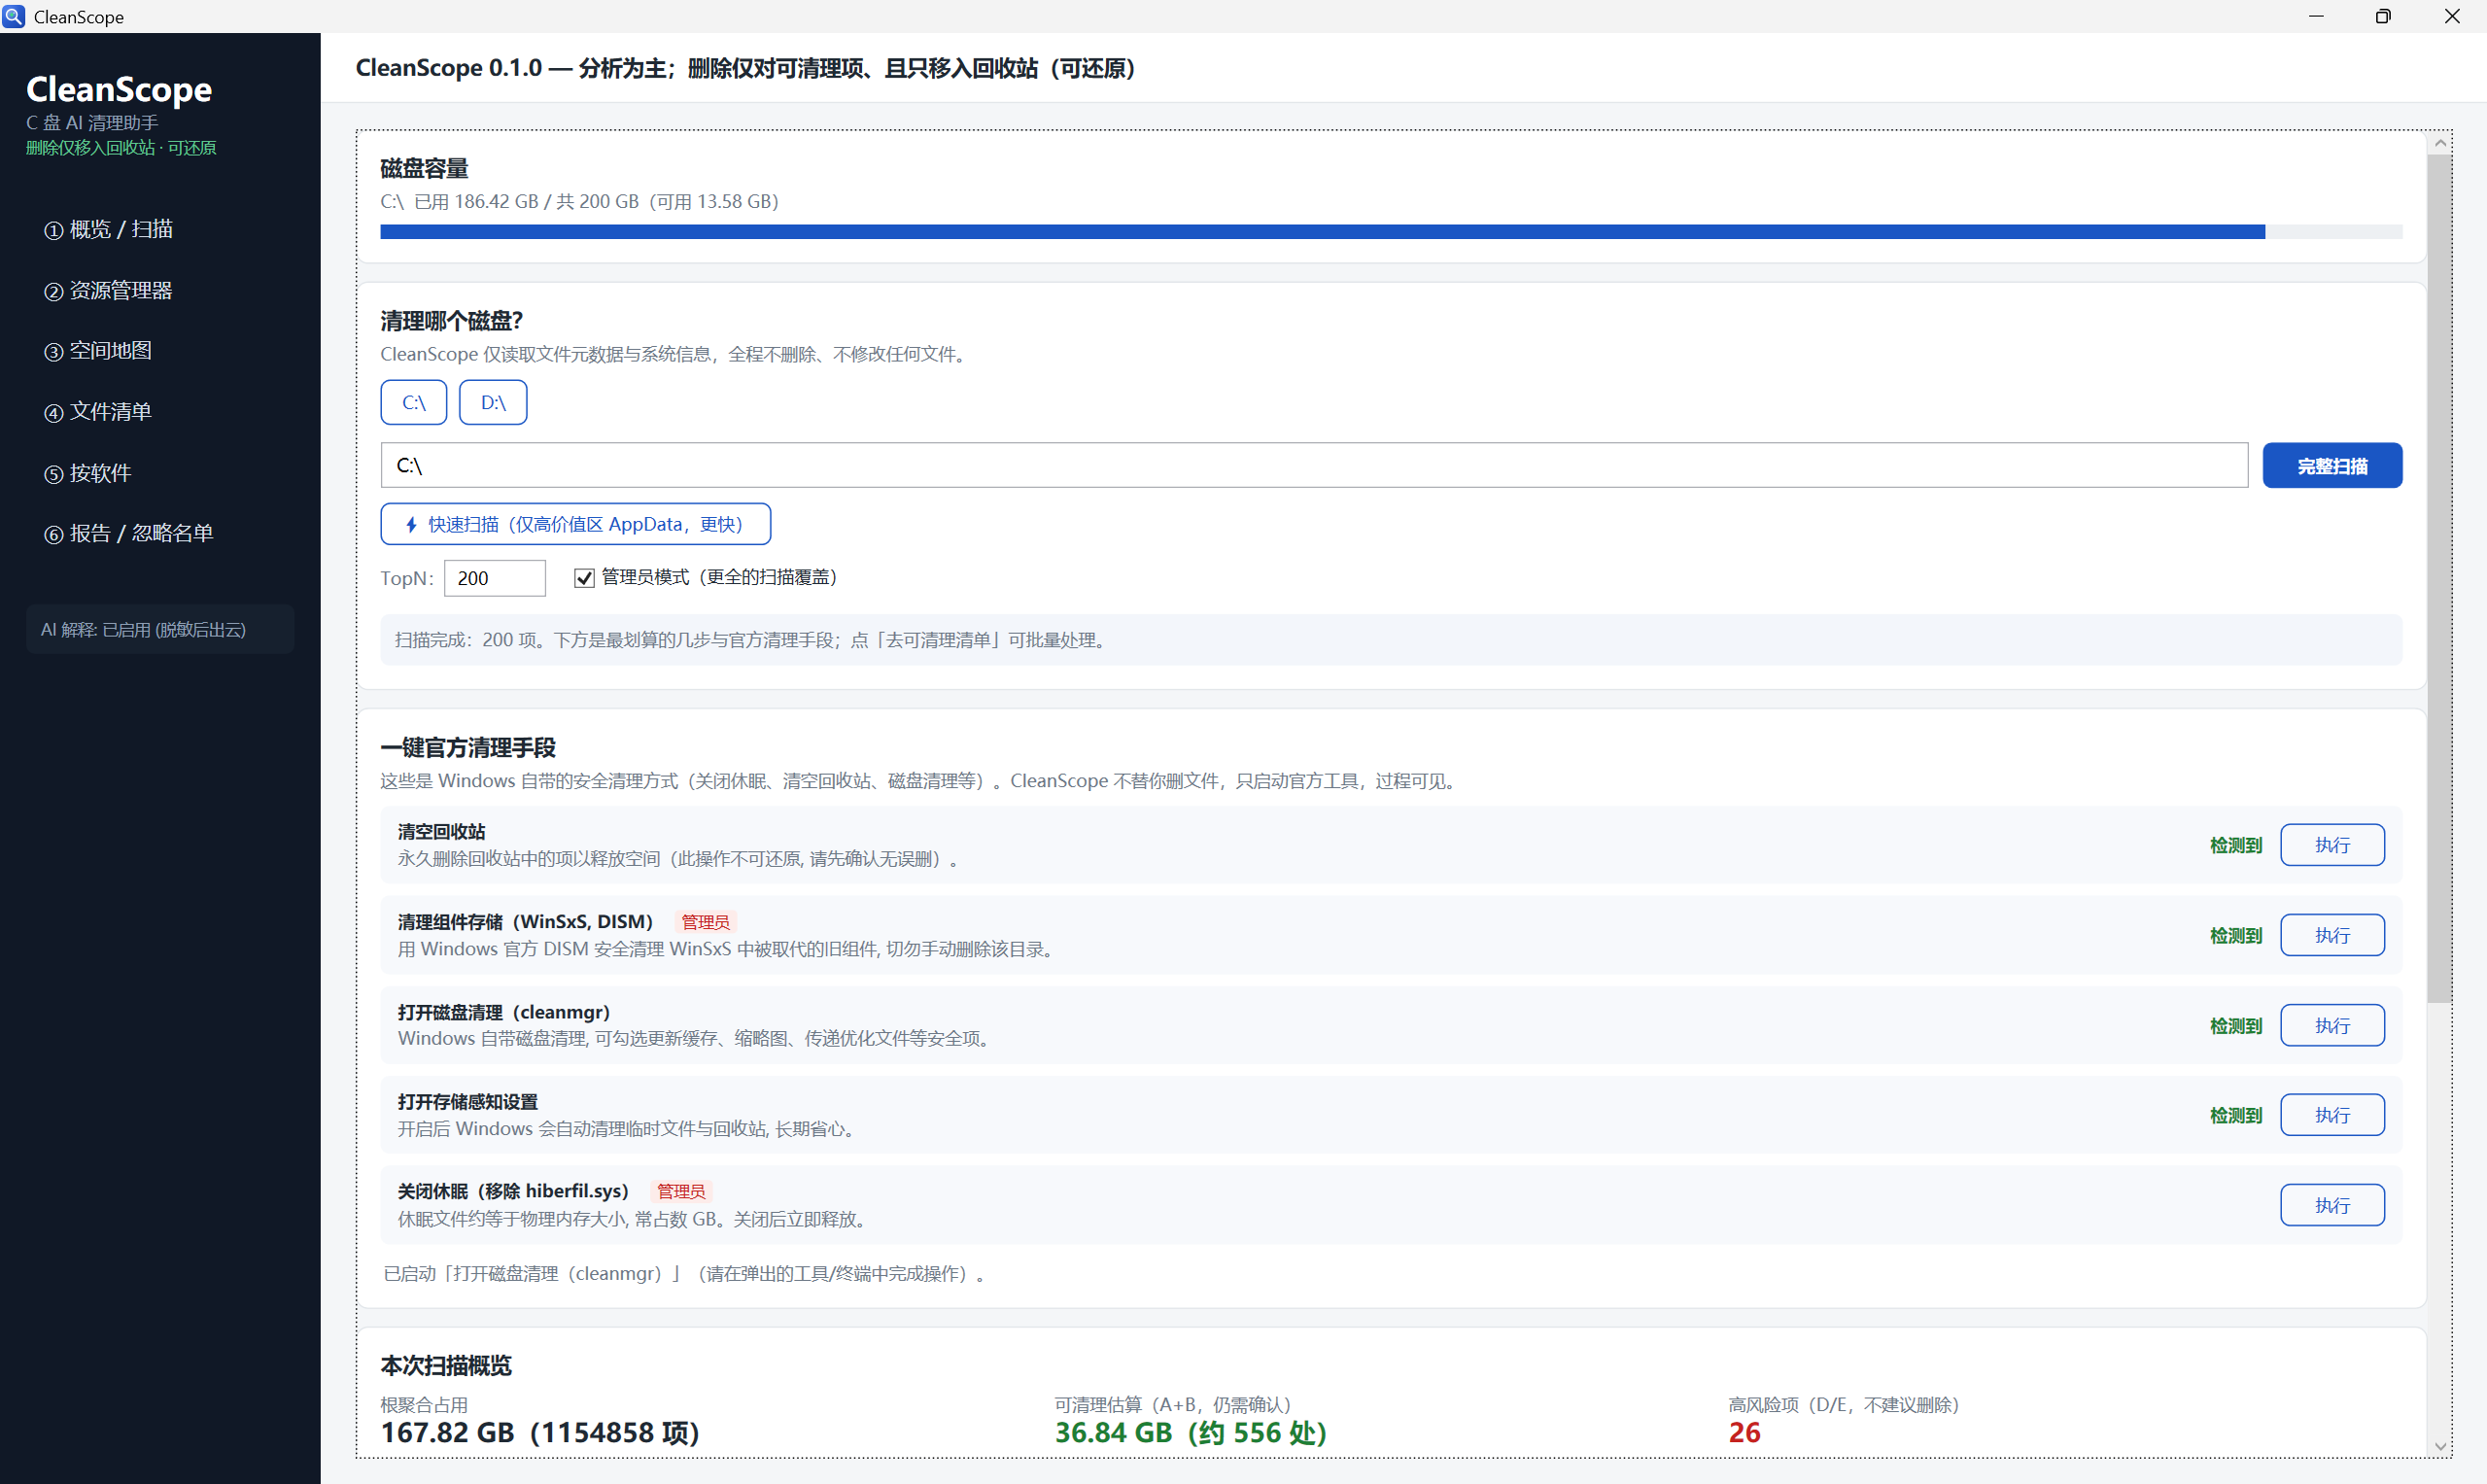
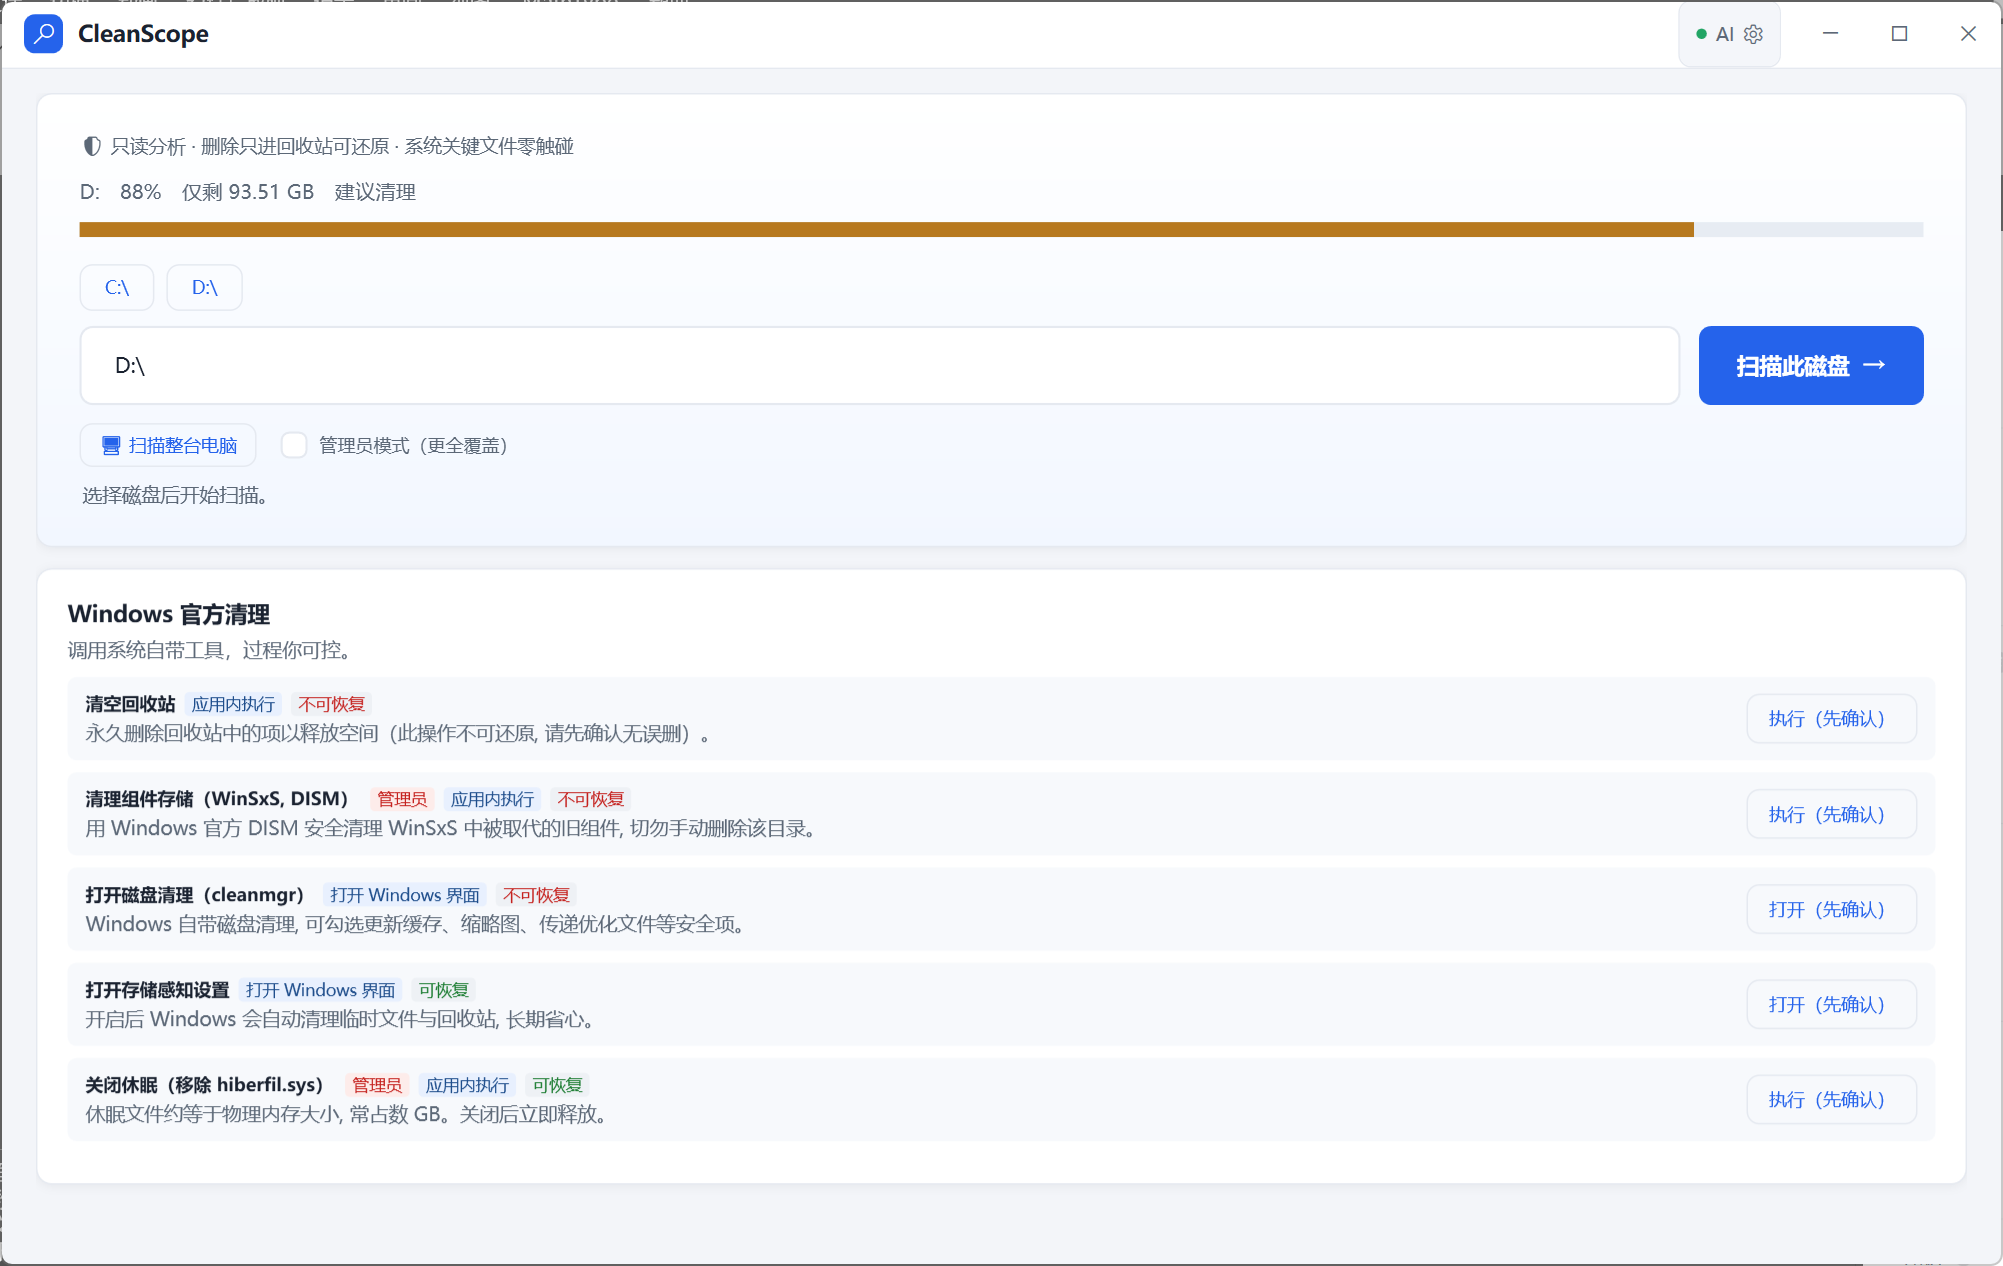
feat(wpf): A 自绘矢量图标系统, 取代 UI 中的 emoji
- App.xaml 新增统一图标集 (描边/实心两类 Geometry + IconStroke/IconFill 样式):
  搜索/回收站/盾牌/显示器/计划清单/锁/滑块/文档/警示/对勾/还原/AI星/播放。
- 各视图按钮与标记的 emoji 全部换成 Path 矢量图标 (延续返回箭头的线性风格,
  随主题色着色): AI设置(检索/查看日志/脱敏档位/加密提示/已生效)、可清理清单
  (移入回收站/AI识别/可清理/已回收/AI推测)、文件详情(高风险/符号链接/AI解释/
  回收/运行命令)、首页(安全承诺/扫整机/AI计划)、空间地图图例、报告页回收还原。
- 看着是刻意设计的图标而非随手贴的 emoji; 矢量随 DPI 缩放清晰。

diff --git a/src/CleanScope.App.Wpf/Views/ExplorerView.xaml b/src/CleanScope.App.Wpf/Views/ExplorerView.xaml
@@ -19,7 +19,7 @@
             <StackPanel Grid.Row="0" Margin="0,0,0,10">
                 <Grid>
                     <TextBlock Text="资源管理器（整盘目录树 · 可清理清单）" Style="{StaticResource H2}" VerticalAlignment="Center"/>
-                    <CheckBox Content="✓ 只看可清理（扁平，可勾选批量清理）" IsChecked="{Binding ShowCleanableOnly}"
+                    <CheckBox Content="只看可清理（扁平，可勾选批量清理）" IsChecked="{Binding ShowCleanableOnly}"
                               HorizontalAlignment="Right" VerticalAlignment="Center" Foreground="#1E7E34" FontWeight="SemiBold"/>
                 </Grid>
 
@@ -56,8 +56,13 @@
                             Visibility="{Binding ShowBatchBar, Converter={StaticResource BoolToVis}}">
                     <Button Content="全选" Command="{Binding SelectAllCommand}" Style="{StaticResource Ghost}" Margin="0,0,8,0"/>
                     <Button Content="全不选" Command="{Binding SelectNoneCommand}" Style="{StaticResource Ghost}" Margin="0,0,8,0"/>
-                    <Button Content="🗑 移入回收站（可还原）" Command="{Binding RecycleSelectedCommand}"
-                            Style="{StaticResource Primary}" Margin="0,0,12,0"/>
+                    <Button Command="{Binding RecycleSelectedCommand}" Style="{StaticResource Primary}" Margin="0,0,12,0">
+                        <StackPanel Orientation="Horizontal">
+                            <Path Data="{StaticResource IconTrash}" Style="{StaticResource IconStroke}" Stroke="White"
+                                  Width="14" Height="14" Margin="0,0,6,0"/>
+                            <TextBlock Text="移入回收站（可还原）" VerticalAlignment="Center"/>
+                        </StackPanel>
+                    </Button>
                     <TextBlock Text="排序" VerticalAlignment="Center" Foreground="{StaticResource Muted}" Margin="0,0,4,0"/>
                     <Button Content="大小" Command="{Binding SortBySizeCommand}" Style="{StaticResource Ghost}" Margin="0,0,6,0"/>
                     <Button Content="名称" Command="{Binding SortByNameCommand}" Style="{StaticResource Ghost}" Margin="0,0,16,0"/>
@@ -150,13 +155,25 @@
                                             </Style>
                                         </TextBlock.Style>
                                     </TextBlock>
-                                    <TextBlock Text="  ✓可清理" Foreground="#1E7E34" FontSize="11" VerticalAlignment="Center"
-                                               Visibility="{Binding IsCleanable, Converter={StaticResource BoolToVis}}"/>
-                                    <TextBlock Text="  ♻已移入回收站" Foreground="{StaticResource Muted}" FontSize="11" VerticalAlignment="Center"
-                                               Visibility="{Binding IsDeleted, Converter={StaticResource BoolToVis}}"/>
-                                    <TextBlock Text="  ✨AI推测" Foreground="#8451C4" FontSize="11" VerticalAlignment="Center"
-                                               ToolTip="来源/用途由 AI 推测补充，仅供参考"
-                                               Visibility="{Binding IsAiResolved, Converter={StaticResource BoolToVis}}"/>
+                                    <StackPanel Orientation="Horizontal" VerticalAlignment="Center" Margin="8,0,0,0"
+                                                Visibility="{Binding IsCleanable, Converter={StaticResource BoolToVis}}">
+                                        <Path Data="{StaticResource IconCheck}" Style="{StaticResource IconStroke}" Stroke="#1E7E34"
+                                              Width="11" Height="11" Margin="0,0,3,0"/>
+                                        <TextBlock Text="可清理" Foreground="#1E7E34" FontSize="11" VerticalAlignment="Center"/>
+                                    </StackPanel>
+                                    <StackPanel Orientation="Horizontal" VerticalAlignment="Center" Margin="8,0,0,0"
+                                                Visibility="{Binding IsDeleted, Converter={StaticResource BoolToVis}}">
+                                        <Path Data="{StaticResource IconRestore}" Style="{StaticResource IconStroke}" Stroke="{StaticResource Muted}"
+                                              Width="11" Height="11" Margin="0,0,3,0"/>
+                                        <TextBlock Text="已移入回收站" Foreground="{StaticResource Muted}" FontSize="11" VerticalAlignment="Center"/>
+                                    </StackPanel>
+                                    <StackPanel Orientation="Horizontal" VerticalAlignment="Center" Margin="8,0,0,0"
+                                                ToolTip="来源/用途由 AI 推测补充，仅供参考"
+                                                Visibility="{Binding IsAiResolved, Converter={StaticResource BoolToVis}}">
+                                        <Path Data="{StaticResource IconAi}" Style="{StaticResource IconFill}" Fill="#8451C4"
+                                              Width="11" Height="11" Margin="0,0,3,0"/>
+                                        <TextBlock Text="AI推测" Foreground="#8451C4" FontSize="11" VerticalAlignment="Center"/>
+                                    </StackPanel>
                                     <StackPanel Orientation="Horizontal" VerticalAlignment="Center" Margin="6,0,0,0"
                                                 Visibility="{Binding IsInvestigating, Converter={StaticResource BoolToVis}}">
                                         <views:Spinner Diameter="11" Stroke="#8451C4" VerticalAlignment="Center"/>
@@ -257,14 +274,26 @@
                                     <Button Content="复制路径" Command="{Binding CopyPathCommand}" Style="{StaticResource Ghost}" Margin="0,0,6,6"/>
                                     <Button Content="打开位置" Command="{Binding OpenLocationCommand}" Style="{StaticResource Ghost}" Margin="0,0,6,6"
                                             Visibility="{Binding ShowLiveActions, Converter={StaticResource BoolToVis}}"/>
-                                    <Button Content="✨ 用 AI 识别" Command="{Binding InvestigateCommand}" Style="{StaticResource Ghost}" Margin="0,0,6,6"
-                                            Visibility="{Binding ShowAiMenu, Converter={StaticResource BoolToVis}}"/>
+                                    <Button Command="{Binding InvestigateCommand}" Style="{StaticResource Ghost}" Margin="0,0,6,6"
+                                            Visibility="{Binding ShowAiMenu, Converter={StaticResource BoolToVis}}">
+                                        <StackPanel Orientation="Horizontal">
+                                            <Path Data="{StaticResource IconAi}" Style="{StaticResource IconFill}" Fill="{StaticResource Accent}"
+                                                  Width="13" Height="13" Margin="0,0,6,0"/>
+                                            <TextBlock Text="用 AI 识别" VerticalAlignment="Center"/>
+                                        </StackPanel>
+                                    </Button>
                                     <Button Content="加入忽略名单" Command="{Binding AddIgnoreCommand}" Style="{StaticResource Ghost}" Margin="0,0,6,6"
                                             Visibility="{Binding ShowLiveActions, Converter={StaticResource BoolToVis}}"/>
                                     <Button Content="迁移到其他盘" Command="{Binding MigrateCommand}" Style="{StaticResource Ghost}" Margin="0,0,6,6"
                                             Visibility="{Binding ShowLiveActions, Converter={StaticResource BoolToVis}}"/>
-                                    <Button Content="🗑 移入回收站" Command="{Binding RecycleCommand}" Style="{StaticResource Ghost}" Margin="0,0,6,6"
-                                            Visibility="{Binding ShowLiveActions, Converter={StaticResource BoolToVis}}"/>
+                                    <Button Command="{Binding RecycleCommand}" Style="{StaticResource Ghost}" Margin="0,0,6,6"
+                                            Visibility="{Binding ShowLiveActions, Converter={StaticResource BoolToVis}}">
+                                        <StackPanel Orientation="Horizontal">
+                                            <Path Data="{StaticResource IconTrash}" Style="{StaticResource IconStroke}" Stroke="{StaticResource Accent}"
+                                                  Width="13" Height="13" Margin="0,0,6,0"/>
+                                            <TextBlock Text="移入回收站" VerticalAlignment="Center"/>
+                                        </StackPanel>
+                                    </Button>
                                     <Button Content="在回收站中查看 / 还原" Command="{Binding OpenRecycleBinCommand}" Style="{StaticResource Ghost}" Margin="0,0,6,6"
                                             Visibility="{Binding IsDeleted, Converter={StaticResource BoolToVis}}"/>
                                 </WrapPanel>

diff --git a/src/CleanScope.App.Wpf/Views/FileDetailView.xaml b/src/CleanScope.App.Wpf/Views/FileDetailView.xaml
@@ -42,8 +42,11 @@
                     <!-- 高风险提示: D/E 仅提示不建议删除, 不渲染任何删除入口 -->
                     <Border Margin="0,12,0,0" Padding="12" CornerRadius="6" Background="#FCE8E6"
                             Visibility="{Binding IsHighRisk, Converter={StaticResource BoolToVis}}">
-                        <TextBlock Foreground="#9A1C19" TextWrapping="Wrap"
-                                   Text="🔴 该项为高风险（D/E）：可能是系统/应用关键文件或无法判断来源。本工具不提供删除入口，强烈建议保留。"/>
+                        <StackPanel Orientation="Horizontal">
+                            <Ellipse Width="10" Height="10" Fill="{StaticResource Critical}" VerticalAlignment="Top" Margin="0,3,8,0"/>
+                            <TextBlock Foreground="#9A1C19" TextWrapping="Wrap"
+                                       Text="该项为高风险（D/E）：可能是系统/应用关键文件或无法判断来源。本工具不提供删除入口，强烈建议保留。"/>
+                        </StackPanel>
                     </Border>
                 </StackPanel>
             </Border>
@@ -60,9 +63,13 @@
                         <StackPanel Margin="0,2"><TextBlock Text="最后修改" Style="{StaticResource Sub}"/><TextBlock Text="{Binding Mtime}"/></StackPanel>
                         <StackPanel Margin="0,2"><TextBlock Text="占用进程" Style="{StaticResource Sub}"/><TextBlock Text="{Binding OccupyingProcess}"/></StackPanel>
                     </UniformGrid>
-                    <TextBlock Margin="0,8,0,0" Foreground="#9A6700"
-                               Visibility="{Binding IsReparsePoint, Converter={StaticResource BoolToVis}}"
-                               Text="⚠ 此项为符号链接 / 联接点；风险判定基于解析后的真实路径。"/>
+                    <StackPanel Orientation="Horizontal" Margin="0,8,0,0"
+                                Visibility="{Binding IsReparsePoint, Converter={StaticResource BoolToVis}}">
+                        <Path Data="{StaticResource IconWarn}" Style="{StaticResource IconStroke}" Stroke="#9A6700"
+                              Width="13" Height="13" Margin="0,0,6,0" VerticalAlignment="Top"/>
+                        <TextBlock Foreground="#9A6700" TextWrapping="Wrap"
+                                   Text="此项为符号链接 / 联接点；风险判定基于解析后的真实路径。"/>
+                    </StackPanel>
                 </StackPanel>
             </Border>
 
@@ -168,9 +175,15 @@
         </Border>
 
         <!-- 按需 AI 解释入口: 不自动出云, 用户点了才请求 (省 token); 未配置 AI / 已解释 / 系统关键时不显示 -->
-        <Button Content="✨ 用 AI 解释这一项（脱敏后请求，可选）" Command="{Binding ExplainCommand}" Style="{StaticResource Ghost}"
+        <Button Command="{Binding ExplainCommand}" Style="{StaticResource Ghost}"
                 HorizontalAlignment="Left" Margin="0,0,0,8"
-                Visibility="{Binding CanExplain, Converter={StaticResource BoolToVis}}"/>
+                Visibility="{Binding CanExplain, Converter={StaticResource BoolToVis}}">
+            <StackPanel Orientation="Horizontal">
+                <Path Data="{StaticResource IconAi}" Style="{StaticResource IconFill}" Fill="{StaticResource Accent}"
+                      Width="13" Height="13" Margin="0,0,6,0"/>
+                <TextBlock Text="用 AI 解释这一项（脱敏后请求，可选）" VerticalAlignment="Center"/>
+            </StackPanel>
+        </Button>
 
         <!-- AI 状态 (生成中 / 不可用; 无解释卡时显示); 生成中显示转圈 (问题#2) -->
         <StackPanel Orientation="Horizontal" Margin="2,-4,0,8" VerticalAlignment="Center"
@@ -190,10 +203,22 @@
                 <!-- S-E 删除入口: 仅"可清理"(A/B) 项显示, 移入回收站可还原; 经两步确认+闸门复核+审计。 -->
                 <!-- S-D 推荐动作: 命令型→运行/复制官方命令; 安装目录→卸载程序; 通用→定位/复制路径/忽略 -->
                 <WrapPanel>
-                    <Button Content="🗑 移入回收站（可还原）" Command="{Binding MoveToRecycleBinCommand}" Style="{StaticResource Primary}"
-                            Margin="0,0,8,8" Visibility="{Binding Row.CanRecycle, Converter={StaticResource BoolToVis}}"/>
-                    <Button Content="▶ 运行官方清理命令" Command="{Binding RunCommandCommand}" Style="{StaticResource Primary}"
-                            Margin="0,0,8,8" Visibility="{Binding Row.HasRunCommand, Converter={StaticResource BoolToVis}}"/>
+                    <Button Command="{Binding MoveToRecycleBinCommand}" Style="{StaticResource Primary}"
+                            Margin="0,0,8,8" Visibility="{Binding Row.CanRecycle, Converter={StaticResource BoolToVis}}">
+                        <StackPanel Orientation="Horizontal">
+                            <Path Data="{StaticResource IconTrash}" Style="{StaticResource IconStroke}" Stroke="White"
+                                  Width="14" Height="14" Margin="0,0,6,0"/>
+                            <TextBlock Text="移入回收站（可还原）" VerticalAlignment="Center"/>
+                        </StackPanel>
+                    </Button>
+                    <Button Command="{Binding RunCommandCommand}" Style="{StaticResource Primary}"
+                            Margin="0,0,8,8" Visibility="{Binding Row.HasRunCommand, Converter={StaticResource BoolToVis}}">
+                        <StackPanel Orientation="Horizontal">
+                            <Path Data="{StaticResource IconPlay}" Style="{StaticResource IconFill}" Fill="White"
+                                  Width="13" Height="13" Margin="0,0,6,0"/>
+                            <TextBlock Text="运行官方清理命令" VerticalAlignment="Center"/>
+                        </StackPanel>
+                    </Button>
                     <Button Content="复制清理命令" Command="{Binding CopyCommandCommand}" Style="{StaticResource Ghost}"
                             Margin="0,0,8,8" Visibility="{Binding Row.HasRunCommand, Converter={StaticResource BoolToVis}}"/>
                     <Button Content="打开卸载程序" Command="{Binding UninstallCommand}" Style="{StaticResource Ghost}"

diff --git a/src/CleanScope.App.Wpf/Views/AiSettingsView.xaml b/src/CleanScope.App.Wpf/Views/AiSettingsView.xaml
@@ -30,10 +30,20 @@
 
             <TextBlock Text="API Key" Foreground="{StaticResource Ink}" Margin="0,0,0,4"/>
             <PasswordBox x:Name="KeyBox" Style="{StaticResource FieldPassword}" Margin="0,0,0,4" PasswordChanged="KeyBox_PasswordChanged"/>
-            <TextBlock Text="🔒 本机 DPAPI 加密保存，绝不上传" Style="{StaticResource Caption}" Margin="2,0,0,12"/>
+            <StackPanel Orientation="Horizontal" Margin="2,0,0,12">
+                <Path Data="{StaticResource IconLock}" Style="{StaticResource IconStroke}" Stroke="{StaticResource Faint}"
+                      Width="12" Height="12" Margin="0,0,5,0"/>
+                <TextBlock Text="本机 DPAPI 加密保存，绝不上传" Style="{StaticResource Caption}" VerticalAlignment="Center"/>
+            </StackPanel>
 
             <StackPanel Orientation="Horizontal" Margin="0,0,0,14">
-                <Button Content="🔍 检索模型" Command="{Binding ListModelsCommand}" Style="{StaticResource Ghost}" Margin="0,0,10,0"/>
+                <Button Command="{Binding ListModelsCommand}" Style="{StaticResource Ghost}" Margin="0,0,10,0">
+                    <StackPanel Orientation="Horizontal">
+                        <Path Data="{StaticResource IconSearch}" Style="{StaticResource IconStroke}" Stroke="{StaticResource Accent}"
+                              Width="14" Height="14" Margin="0,0,6,0"/>
+                        <TextBlock Text="检索模型" VerticalAlignment="Center"/>
+                    </StackPanel>
+                </Button>
                 <ComboBox ItemsSource="{Binding Models}" SelectedItem="{Binding SelectedModel}"
                           MinWidth="240" Padding="8,6" VerticalContentAlignment="Center"/>
             </StackPanel>
@@ -46,7 +56,11 @@
             <!-- 出云脱敏: 三档平铺单选, 醒目卡片 (问题#4: 让用户一眼看到能调档, 不致误以为 AI 识别力弱) -->
             <Border Background="#FFF7E6" BorderBrush="#F0C36D" BorderThickness="1" CornerRadius="8" Padding="14,12" Margin="0,0,0,14">
                 <StackPanel>
-                    <TextBlock Text="🔧 出云脱敏档位（影响 AI 识别力 ←→ 隐私）" FontWeight="Bold" Foreground="#8A5A00" Margin="0,0,0,2"/>
+                    <StackPanel Orientation="Horizontal" Margin="0,0,0,2">
+                        <Path Data="{StaticResource IconTune}" Style="{StaticResource IconStroke}" Stroke="#8A5A00"
+                              Width="15" Height="15" Margin="0,0,7,0"/>
+                        <TextBlock Text="出云脱敏档位（影响 AI 识别力 ←→ 隐私）" FontWeight="Bold" Foreground="#8A5A00" VerticalAlignment="Center"/>
+                    </StackPanel>
                     <TextBlock Text="觉得 AI「认不出软件」？多半是脱敏太严。下面三档可随时切换，越往下识别越准、发送的路径信息越多。"
                                TextWrapping="Wrap" Style="{StaticResource Sub}" Margin="0,0,0,10"/>
 
@@ -65,8 +79,14 @@
             </Border>
 
             <StackPanel Orientation="Horizontal" Margin="0,0,0,12">
-                <Button Content="🗎 查看日志" Command="{Binding OpenLogCommand}" Style="{StaticResource Ghost}" Margin="0,0,10,0"
-                        ToolTip="打开本地诊断日志：AI 失败的真实原因（鉴权/模型名/网络/截断等）都记在这里"/>
+                <Button Command="{Binding OpenLogCommand}" Style="{StaticResource Ghost}" Margin="0,0,10,0"
+                        ToolTip="在应用内查看诊断日志：AI 失败的真实原因（鉴权/模型名/网络/截断等）都记在这里">
+                    <StackPanel Orientation="Horizontal">
+                        <Path Data="{StaticResource IconDoc}" Style="{StaticResource IconStroke}" Stroke="{StaticResource Accent}"
+                              Width="14" Height="14" Margin="0,0,6,0"/>
+                        <TextBlock Text="查看日志" VerticalAlignment="Center"/>
+                    </StackPanel>
+                </Button>
                 <Button Content="测试连接" Command="{Binding TestCommand}" Style="{StaticResource Ghost}" Margin="0,0,10,0"/>
                 <Button Command="{Binding SaveCommand}" Style="{StaticResource Primary}" MinWidth="132">
                     <Grid>
@@ -95,8 +115,12 @@
                             <TextBlock Text="保存中…" Foreground="White" Margin="8,0,0,0"/>
                         </StackPanel>
                         <!-- 已生效 -->
-                        <TextBlock Text="✓ 已生效" Foreground="White" VerticalAlignment="Center"
-                                   Visibility="{Binding JustSaved, Converter={StaticResource BoolToVis}}"/>
+                        <StackPanel Orientation="Horizontal" VerticalAlignment="Center"
+                                    Visibility="{Binding JustSaved, Converter={StaticResource BoolToVis}}">
+                            <Path Data="{StaticResource IconCheck}" Style="{StaticResource IconStroke}" Stroke="White"
+                                  Width="14" Height="14" Margin="0,0,6,0"/>
+                            <TextBlock Text="已生效" Foreground="White" VerticalAlignment="Center"/>
+                        </StackPanel>
                     </Grid>
                 </Button>
             </StackPanel>

diff --git a/src/CleanScope.App.Wpf/App.xaml b/src/CleanScope.App.Wpf/App.xaml
@@ -655,6 +655,42 @@
             <!-- 一根水平轴 + 左端楔形箭头, 描边渲染 (见各处 Path Stroke/StrokeThickness)。 -->
             <Geometry x:Key="IconBackArrow">M11,3 L4,10 L11,17 M4,10 L19,10</Geometry>
 
+            <!-- ===== 自绘矢量图标集 (A: 取代 emoji, 统一线性/实心风格, 看着是刻意设计) ===== -->
+            <!-- 描边类 (线性): 用 Stroke 渲染 -->
+            <Geometry x:Key="IconSearch">M7.5,2 A5.5,5.5 0 1,0 7.51,2 M11.6,11.6 L16,16</Geometry>
+            <Geometry x:Key="IconTrash">M3.5,4.6 H14.5 M6.5,4.6 V3.1 Q6.5,2.3 7.3,2.3 H10.7 Q11.5,2.3 11.5,3.1 V4.6 M5,4.6 L5.8,15.4 Q5.85,16.2 6.6,16.2 H11.4 Q12.15,16.2 12.2,15.4 L13,4.6 M7.7,7.2 V13.4 M10.3,7.2 V13.4</Geometry>
+            <Geometry x:Key="IconShield">M9,1.8 L15,4 V8.8 C15,13 12.4,15.2 9,16.4 C5.6,15.2 3,13 3,8.8 V4 Z</Geometry>
+            <Geometry x:Key="IconMonitor">M2.5,3 H15.5 V11.5 H2.5 Z M6.5,14.6 H11.5 M9,11.5 V14.6</Geometry>
+            <Geometry x:Key="IconPlan">M5,3 H13 V16 H5 Z M7.5,3 V2 H10.5 V3 M7,9 L8.2,10.2 L11,7.2 M7,13 H11</Geometry>
+            <Geometry x:Key="IconLock">M4.6,8 H13.4 V16 H4.6 Z M6.3,8 V5.6 C6.3,3.4 7.5,2.5 9,2.5 C10.5,2.5 11.7,3.4 11.7,5.6 V8 M9,11 V13.2</Geometry>
+            <Geometry x:Key="IconTune">M3,5 H7 M11,5 H15 M9,3.4 A1.6,1.6 0 1,0 9.01,3.4 M3,13 H7 M11,13 H15 M9,11.4 A1.6,1.6 0 1,0 9.01,11.4</Geometry>
+            <Geometry x:Key="IconDoc">M5,2.2 H11 L14,5.2 V16 H5 Z M11,2.2 V5.2 H14 M7,9 H12 M7,12 H12 M7,15 H10</Geometry>
+            <Geometry x:Key="IconWarn">M9,2.8 L16,15.2 H2 Z M9,7 V11.1 M9,12.7 V13.3</Geometry>
+            <Geometry x:Key="IconCheck">M3,9.5 L6.8,13.3 L15,5</Geometry>
+            <Geometry x:Key="IconRestore">M3.6,9 A5.4,5.4 0 1,1 5.2,12.8 M3.6,9 L3,6 M3.6,9 L6.6,8</Geometry>
+            <!-- 实心类: 用 Fill 渲染 -->
+            <Geometry x:Key="IconAi">M9,1.5 L10.7,6.8 L16,8.5 L10.7,10.2 L9,15.5 L7.3,10.2 L2,8.5 L7.3,6.8 Z</Geometry>
+            <Geometry x:Key="IconPlay">M5.5,3.5 L14.5,9 L5.5,14.5 Z</Geometry>
+
+            <!-- 图标渲染样式: 描边 / 实心 (统一尺寸/线宽/端点圆角) -->
+            <Style x:Key="IconStroke" TargetType="Path">
+                <Setter Property="StrokeThickness" Value="1.5"/>
+                <Setter Property="StrokeStartLineCap" Value="Round"/>
+                <Setter Property="StrokeEndLineCap" Value="Round"/>
+                <Setter Property="StrokeLineJoin" Value="Round"/>
+                <Setter Property="Stretch" Value="Uniform"/>
+                <Setter Property="Width" Value="16"/>
+                <Setter Property="Height" Value="16"/>
+                <Setter Property="VerticalAlignment" Value="Center"/>
+                <Setter Property="SnapsToDevicePixels" Value="True"/>
+            </Style>
+            <Style x:Key="IconFill" TargetType="Path">
+                <Setter Property="Stretch" Value="Uniform"/>
+                <Setter Property="Width" Value="16"/>
+                <Setter Property="Height" Value="16"/>
+                <Setter Property="VerticalAlignment" Value="Center"/>
+            </Style>
+
             <!-- 标题栏 AI 状态胶囊 (带标签可点; hover 微亮) -->
             <Style x:Key="AiPill" TargetType="Button">
                 <Setter Property="Foreground" Value="{StaticResource Muted}"/>

diff --git a/src/CleanScope.App.Wpf/Views/HomeView.xaml b/src/CleanScope.App.Wpf/Views/HomeView.xaml
@@ -21,9 +21,13 @@
             </Border.Background>
             <StackPanel>
                 <!-- 工作台首屏: 去掉大标题/口号 (占注意力且无用), 仅保留一行安全承诺作信任锚 (扫描前) -->
-                <TextBlock Text="🛡 只读分析 · 删除只进回收站可还原 · 系统关键文件零触碰"
-                           FontSize="12.5" Foreground="{StaticResource Muted}" Margin="0,0,0,2"
-                           Visibility="{Binding HasResult, Converter={StaticResource BoolToVis}, ConverterParameter=invert}"/>
+                <StackPanel Orientation="Horizontal" Margin="0,0,0,2"
+                            Visibility="{Binding HasResult, Converter={StaticResource BoolToVis}, ConverterParameter=invert}">
+                    <Path Data="{StaticResource IconShield}" Style="{StaticResource IconStroke}" Stroke="{StaticResource Clean}"
+                          Width="13" Height="13" Margin="0,0,6,0"/>
+                    <TextBlock Text="只读分析 · 删除只进回收站可还原 · 系统关键文件零触碰"
+                               FontSize="12.5" Foreground="{StaticResource Muted}" VerticalAlignment="Center"/>
+                </StackPanel>
 
                 <TextBlock Text="{Binding DriveInfo}" FontSize="13.5" Foreground="{StaticResource Muted}"
                            Margin="0,12,0,12"/>
@@ -62,9 +66,14 @@
 
                 <!-- 次要选项: 整台电脑 + 管理员模式 (弱化, 不抢主操作) -->
                 <StackPanel Orientation="Horizontal" Margin="0,12,0,0" VerticalAlignment="Center">
-                    <Button Content="🖥 扫描整台电脑" Command="{Binding ScanAllDrivesCommand}"
-                            Style="{StaticResource Ghost}" Padding="12,6"
-                            ToolTip="一次扫描本机所有固定磁盘，合并成一份总览"/>
+                    <Button Command="{Binding ScanAllDrivesCommand}" Style="{StaticResource Ghost}" Padding="12,6"
+                            ToolTip="一次扫描本机所有固定磁盘，合并成一份总览">
+                        <StackPanel Orientation="Horizontal">
+                            <Path Data="{StaticResource IconMonitor}" Style="{StaticResource IconStroke}" Stroke="{StaticResource Accent}"
+                                  Width="14" Height="14" Margin="0,0,6,0"/>
+                            <TextBlock Text="扫描整台电脑" VerticalAlignment="Center"/>
+                        </StackPanel>
+                    </Button>
                     <CheckBox Content="管理员模式（更全覆盖）" IsChecked="{Binding AdminMode}"
                               VerticalAlignment="Center" Margin="16,0,0,0" Foreground="{StaticResource Muted}"/>
                 </StackPanel>
@@ -102,8 +111,13 @@
 
                 <!-- S-H: 整盘 AI 清理参谋 —— 按需生成 (零默认 token); 未配置 AI 时按钮不显示 -->
                 <StackPanel Margin="0,0,0,12" Visibility="{Binding ShowAdviseButton, Converter={StaticResource BoolToVis}}">
-                    <Button Content="🧭 生成 AI 行动计划（基于占用汇总，不含路径，请求一次，可选）" Command="{Binding AdviseCommand}"
-                            Style="{StaticResource Ghost}" HorizontalAlignment="Left"/>
+                    <Button Command="{Binding AdviseCommand}" Style="{StaticResource Ghost}" HorizontalAlignment="Left">
+                        <StackPanel Orientation="Horizontal">
+                            <Path Data="{StaticResource IconPlan}" Style="{StaticResource IconStroke}" Stroke="{StaticResource Accent}"
+                                  Width="14" Height="14" Margin="0,0,6,0"/>
+                            <TextBlock Text="生成 AI 行动计划（基于占用汇总，不含路径，请求一次，可选）" VerticalAlignment="Center"/>
+                        </StackPanel>
+                    </Button>
                     <StackPanel Orientation="Horizontal" Margin="2,8,0,0" VerticalAlignment="Center"
                                 Visibility="{Binding AdviseStatus, Converter={StaticResource NotEmptyToVis}}">
                         <views:Spinner Diameter="14" VerticalAlignment="Center"
@@ -116,7 +130,11 @@
                 <Border Background="#F1F7FF" CornerRadius="6" Padding="12,10" Margin="0,0,0,12"
                         Visibility="{Binding HasAiAdvice, Converter={StaticResource BoolToVis}}">
                     <StackPanel>
-                        <TextBlock Text="🧭 AI 清理行动计划（跨项建议，仅供参考）" FontWeight="SemiBold" Foreground="#1F4E8C"/>
+                        <StackPanel Orientation="Horizontal">
+                            <Path Data="{StaticResource IconPlan}" Style="{StaticResource IconStroke}" Stroke="#1F4E8C"
+                                  Width="15" Height="15" Margin="0,0,7,0"/>
+                            <TextBlock Text="AI 清理行动计划（跨项建议，仅供参考）" FontWeight="SemiBold" Foreground="#1F4E8C" VerticalAlignment="Center"/>
+                        </StackPanel>
 
                         <!-- 一句话总览 (有结构化计划时) -->
                         <TextBlock Text="{Binding PlanSummary}" TextWrapping="Wrap" Margin="0,6,0,0" FontSize="13.5"

diff --git a/src/CleanScope.App.Wpf/Views/ReportView.xaml b/src/CleanScope.App.Wpf/Views/ReportView.xaml
@@ -14,8 +14,14 @@
             <StackPanel>
                 <Grid>
                     <TextBlock Text="回收历史 · 随时可还原" Style="{StaticResource H2}" VerticalAlignment="Center"/>
-                    <Button HorizontalAlignment="Right" VerticalAlignment="Center" Content="🗑 打开回收站还原"
-                            Command="{Binding OpenRecycleBinCommand}" Style="{StaticResource Outline}"/>
+                    <Button HorizontalAlignment="Right" VerticalAlignment="Center"
+                            Command="{Binding OpenRecycleBinCommand}" Style="{StaticResource Outline}">
+                        <StackPanel Orientation="Horizontal">
+                            <Path Data="{StaticResource IconRestore}" Style="{StaticResource IconStroke}" Stroke="{StaticResource Ink}"
+                                  Width="14" Height="14" Margin="0,0,6,0"/>
+                            <TextBlock Text="打开回收站还原" VerticalAlignment="Center"/>
+                        </StackPanel>
+                    </Button>
                 </Grid>
                 <TextBlock Text="{Binding HistoryStatus}" Style="{StaticResource Sub}" Margin="0,2,0,8" TextWrapping="Wrap"/>
 

diff --git a/src/CleanScope.App.Wpf/Views/SpaceMapView.xaml b/src/CleanScope.App.Wpf/Views/SpaceMapView.xaml
@@ -68,7 +68,8 @@
                             <TextBlock Text="E 系统关键 · 勿动" Style="{StaticResource Sub}"/>
                         </StackPanel>
                         <StackPanel Orientation="Horizontal" Margin="0,0,0,4">
-                            <TextBlock Text="✓" Foreground="#1E7E34" FontWeight="Bold" Margin="0,0,4,0" VerticalAlignment="Center"/>
+                            <Path Data="{StaticResource IconCheck}" Style="{StaticResource IconStroke}" Stroke="#1E7E34"
+                                  Width="13" Height="13" Margin="0,0,5,0"/>
                             <TextBlock Text="角标 = 可清理（可勾选批量回收）" Style="{StaticResource Sub}"/>
                         </StackPanel>
                     </WrapPanel>